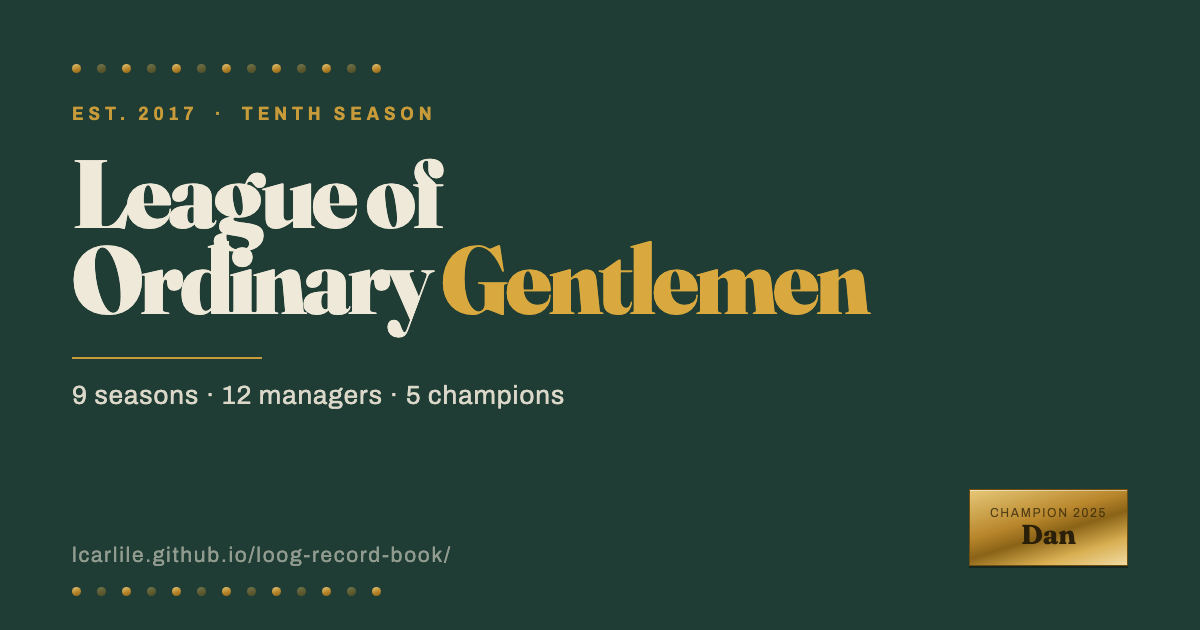
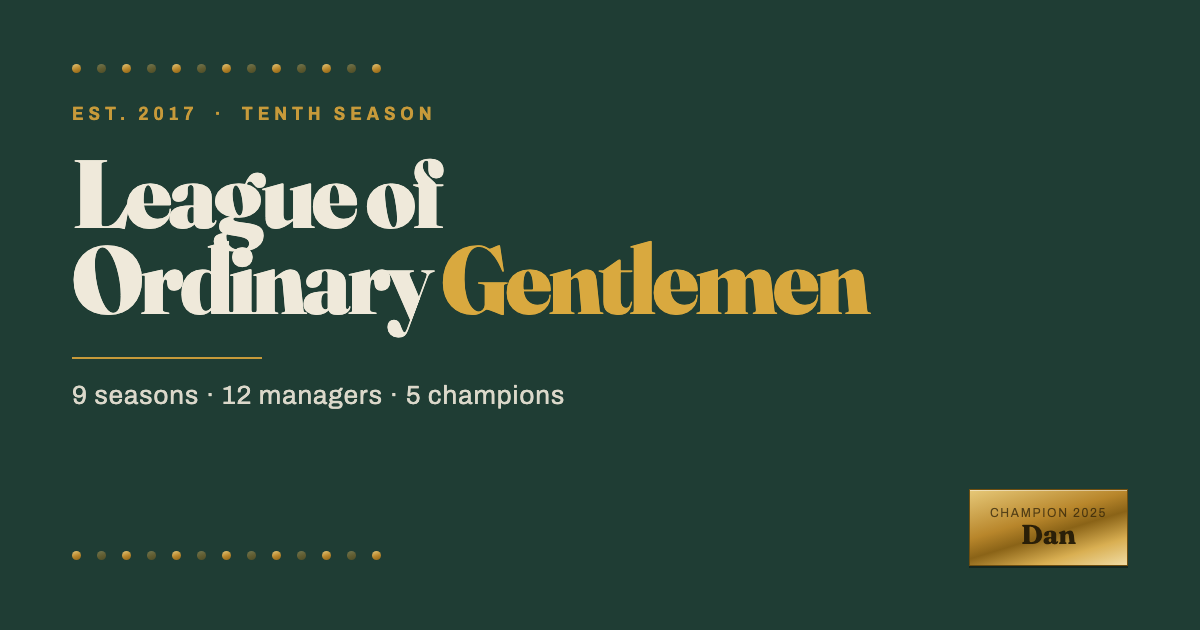
Drop the URL from the preview card, and make it one command
The unfurl already prints the domain under the image, so the card was
repeating it. Removed, with the stud row moved down to balance the
champion plate along the bottom.

make-og.sh now does the whole job for a league - writes the card HTML,
serves it locally, renders it to a 1200x630 PNG with headless Chrome, and
cleans up. It was three manual steps before, which is the sort of thing
that quietly rots. Added to the yearly steps in the README, since the
card names the reigning champion and goes stale each season.

Claude-Session: https://claude.ai/code/session_014RQ6aPpDbjUHuC9TgYz8Zf

diff --git a/make-og.js b/make-og.js
@@ -37,6 +37,7 @@ fs.writeFileSync(path.join(__dirname, 'og', SLUG + '.html'), `<!doctype html>
   .rule{height:2px;background:#C79A3A;margin:34px 0 22px;width:190px}
   .stats{font-size:26px;letter-spacing:.04em;color:rgba(239,233,218,.9)}
   .foot{display:flex;justify-content:space-between;align-items:flex-end}
+  .foot .studs{padding-bottom:6px}
   .url{font-size:21px;letter-spacing:.08em;color:rgba(239,233,218,.55)}
   .plate{background:linear-gradient(163deg,#E6C878 0%,#B8862B 40%,#8A6317 56%,#D9AF52 78%,#F0DCA4 100%);
      color:#2A1F08;padding:13px 20px 15px;text-align:center;border:1px solid #6E4E10;
@@ -53,11 +54,10 @@ fs.writeFileSync(path.join(__dirname, 'og', SLUG + '.html'), `<!doctype html>
     <div class="stats">${stats}</div>
   </div>
   <div class="foot">
-    <div class="url">${(CFG.brand.site || 'lcarlile.github.io/loog-record-book/').replace(/^https?:\/\//, '')}</div>
+    <div class="studs">${'<i></i>'.repeat(13)}</div>
     <div class="plate"><small>CHAMPION ${years[years.length - 1]}</small>
       <b>${(M.find(m => m.seasons.some(s => s.year === years[years.length - 1] && s.note === 'Champion')) || {}).name || ''}</b></div>
   </div>
-  <div class="studs" style="position:absolute;left:72px;bottom:34px">${'<i></i>'.repeat(13)}</div>
 </div>
 `);
 console.log('wrote og/' + SLUG + '.html');

diff --git a/og/the-league.html b/og/the-league.html
@@ -20,6 +20,7 @@
   .rule{height:2px;background:#C79A3A;margin:34px 0 22px;width:190px}
   .stats{font-size:26px;letter-spacing:.04em;color:rgba(239,233,218,.9)}
   .foot{display:flex;justify-content:space-between;align-items:flex-end}
+  .foot .studs{padding-bottom:6px}
   .url{font-size:21px;letter-spacing:.08em;color:rgba(239,233,218,.55)}
   .plate{background:linear-gradient(163deg,#E6C878 0%,#B8862B 40%,#8A6317 56%,#D9AF52 78%,#F0DCA4 100%);
      color:#2A1F08;padding:13px 20px 15px;text-align:center;border:1px solid #6E4E10;
@@ -36,9 +37,8 @@
     <div class="stats">5 seasons  ·  13 managers  ·  4 champions</div>
   </div>
   <div class="foot">
-    <div class="url">lcarlile.github.io/the-league-record-book/</div>
+    <div class="studs"><i></i><i></i><i></i><i></i><i></i><i></i><i></i><i></i><i></i><i></i><i></i><i></i><i></i></div>
     <div class="plate"><small>CHAMPION 2025</small>
       <b>Robby</b></div>
   </div>
-  <div class="studs" style="position:absolute;left:72px;bottom:34px"><i></i><i></i><i></i><i></i><i></i><i></i><i></i><i></i><i></i><i></i><i></i><i></i><i></i></div>
 </div>

diff --git a/og/loog.html b/og/loog.html
@@ -20,6 +20,7 @@
   .rule{height:2px;background:#C79A3A;margin:34px 0 22px;width:190px}
   .stats{font-size:26px;letter-spacing:.04em;color:rgba(239,233,218,.9)}
   .foot{display:flex;justify-content:space-between;align-items:flex-end}
+  .foot .studs{padding-bottom:6px}
   .url{font-size:21px;letter-spacing:.08em;color:rgba(239,233,218,.55)}
   .plate{background:linear-gradient(163deg,#E6C878 0%,#B8862B 40%,#8A6317 56%,#D9AF52 78%,#F0DCA4 100%);
      color:#2A1F08;padding:13px 20px 15px;text-align:center;border:1px solid #6E4E10;
@@ -36,9 +37,8 @@
     <div class="stats">9 seasons  ·  12 managers  ·  5 champions</div>
   </div>
   <div class="foot">
-    <div class="url">lcarlile.github.io/loog-record-book/</div>
+    <div class="studs"><i></i><i></i><i></i><i></i><i></i><i></i><i></i><i></i><i></i><i></i><i></i><i></i><i></i></div>
     <div class="plate"><small>CHAMPION 2025</small>
       <b>Dan</b></div>
   </div>
-  <div class="studs" style="position:absolute;left:72px;bottom:34px"><i></i><i></i><i></i><i></i><i></i><i></i><i></i><i></i><i></i><i></i><i></i><i></i><i></i></div>
 </div>

diff --git a/README.md b/README.md
@@ -24,6 +24,7 @@ node build.js
 
 ./refresh.sh --league the-league    # the other league
 node build.js --league the-league
+./make-og.sh the-league
 ./publish.sh the-league             # pushes to its own site repo
 
 git commit -am "2026 season" && git push
